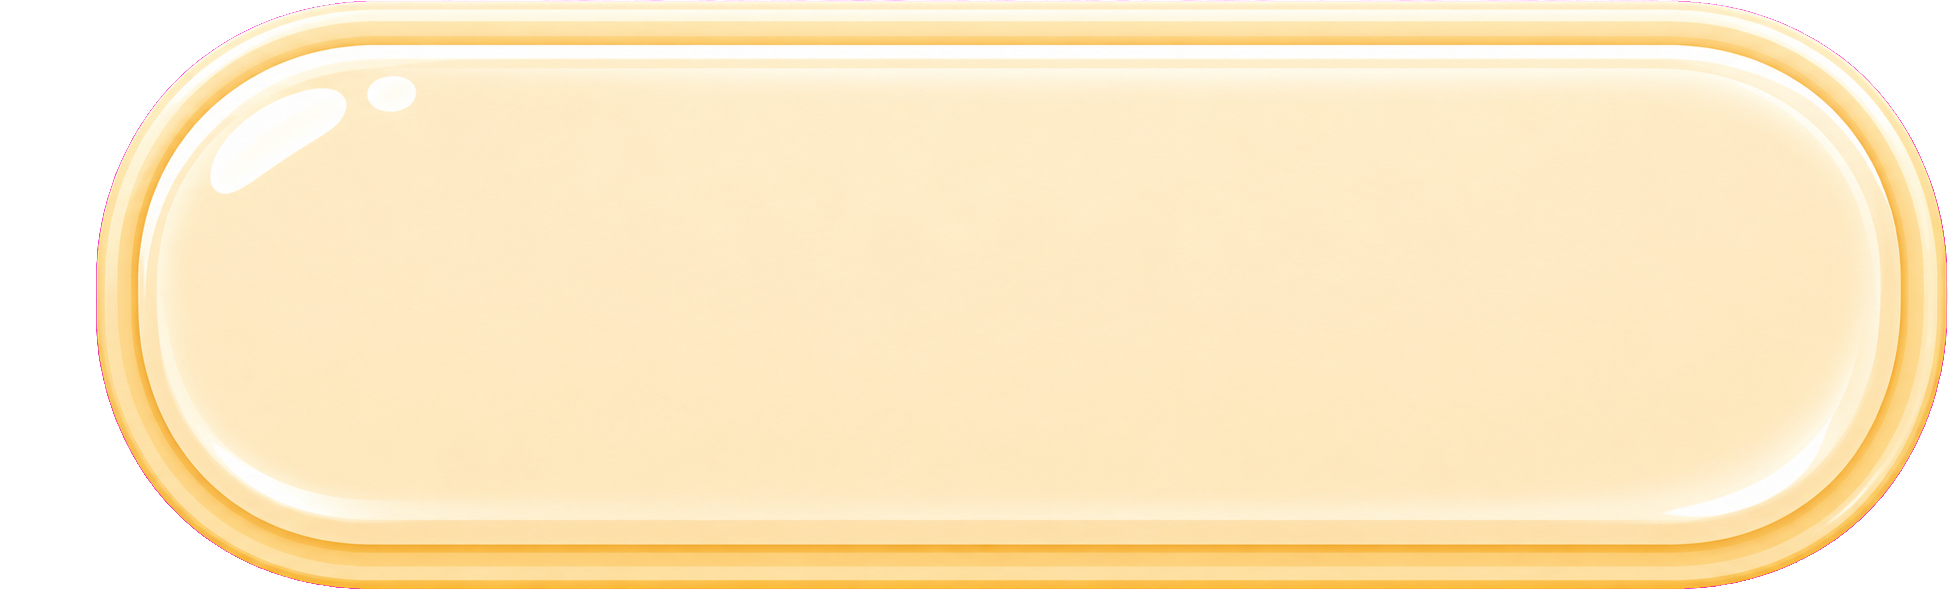
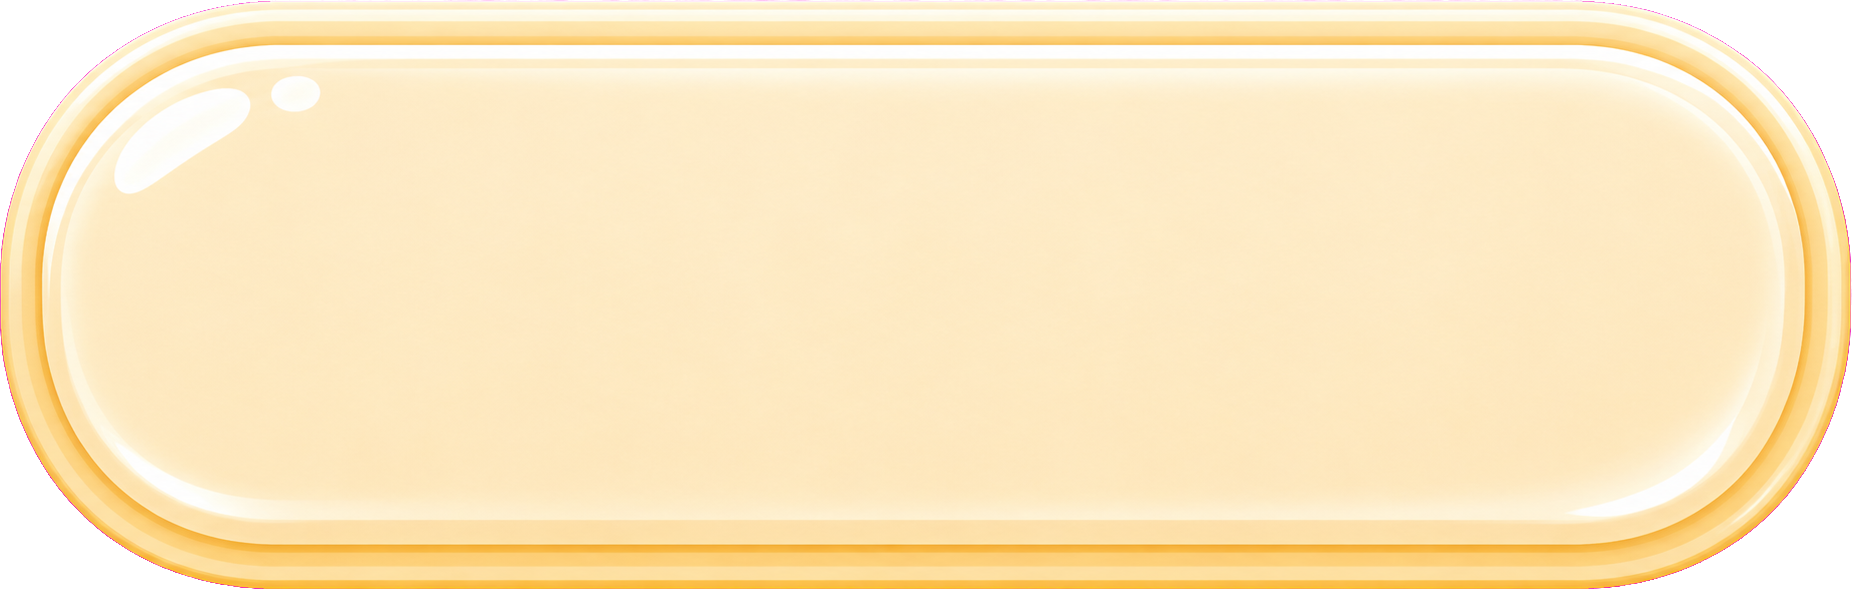
1.2.10优化设置页面

Changed region(s): [[0.0, 0.0, 0.2154, 1.0], [0.8618, 0.0, 1.0, 1.0]]

diff --git a/src/styles.css b/src/styles.css
@@ -602,10 +602,10 @@ button:disabled {
 .settings-panel {
   position: relative;
   display: grid;
-  width: min(94%, 96.9231cqw);
+  width: 80%;
   max-width: calc(100% - 4.1026cqw);
   margin-top: 50px;
-  padding: clamp(50px, 13cqw, 60px) clamp(12px, 4cqw, 20px) clamp(32px, 9cqw, 40px);
+  padding: clamp(50px, 13cqw, 60px) clamp(12px, 8cqw, 8cqw) clamp(32px, 9cqw, 40px);
   gap: clamp(8px, 2.5cqw, 10px);
   border-radius: 31px;
   background: url("./assets/image/module-settings-panel-bg.png") center / 100% 100% no-repeat;
@@ -633,7 +633,7 @@ button:disabled {
   width: 100%;
   min-width: 0;
   min-height: clamp(17.9487cqw, 20cqw, 20.5128cqw);
-  padding: 0 clamp(10px, 3cqw, 16px);
+  padding-left: 6cqw;
   grid-template-columns: max-content max-content minmax(28.7179cqw, 30.7692cqw);
   justify-content: center;
   align-items: center;
@@ -644,15 +644,15 @@ button:disabled {
 
 .settings-icon {
   justify-self: center;
-  width: clamp(7.6923cqw, 10cqw, 10.2564cqw);
-  height: clamp(7.6923cqw, 10cqw, 10.2564cqw);
+  width: 7cqw;
+  height: 7cqw;
   object-fit: contain;
 }
 
 .settings-row strong {
   min-width: 0;
   color: #086d66;
-  font-size: clamp(1rem, 5cqw, 1.2rem);
+  font-size: 1rem;
   font-weight: 950;
   line-height: 1;
   text-align: center;
@@ -663,9 +663,9 @@ button:disabled {
   position: relative;
   justify-self: stretch;
   overflow: hidden;
-  width: 100%;
+  width: 80%;
   min-width: 0;
-  min-height: clamp(9.7436cqw, 11cqw, 10.7692cqw);
+  min-height: 9cqw;
   padding: 0 clamp(32px, 10cqw, 50px) 0 clamp(10px, 4cqw, 20px);
   border-radius: 999px;
   color: #ffffff;
@@ -2031,7 +2031,7 @@ h2 {
 
 .toast {
   position: absolute;
-  top: 12px;
+  top: -10%;
   left: 18px;
   right: 18px;
   z-index: 4;
@@ -2096,8 +2096,8 @@ h2 {
 .tile-art {
   position: relative;
   z-index: 1;
-  width: 185%;
-  height: 185%;
+  width: 125%;
+  height: 125%;
   object-fit: contain;
   pointer-events: none;
 }

diff --git a/docs/project-handoff.md b/docs/project-handoff.md
@@ -7,10 +7,11 @@
 - 项目名称：Link Match 连连看
 - 项目路径：`E:\VIGORPLAY\游戏\Link-Match`
 - 项目类型：移动端竖屏 H5 单机连连看 MVP
-- 当前阶段：`1.2.9优化` 提交收口：窄屏设置页、游戏棋盘适配、棋子视觉比例和后台音乐生命周期已完成验证、本地提交和远程 `main` 推送。
+- 当前阶段：`1.2.10优化设置页面` 提交收口：设置页面板、设置行、开关、图标、文字和行背景裁切已完成验证、本地提交并推送到远程 `main`。
 
 ## 2. 当前进度
 
+- 2026-07-02 `1.2.10优化设置页面`：按本轮提交备注收口当前工作区设置页优化。`src/assets/image/module-settings-row-bg.png` 已裁掉左侧 96px 透明留白，四边透明边距复查为 0；设置页面板宽度改为 `80%`，左右 padding 调整为 `8cqw`，设置行改为 `padding-left: 6cqw`，设置图标统一为 `7cqw`，设置文字字号固定为 `1rem`，设置开关宽度改为 `80%` 且最小高度为 `9cqw`。`tests/settings-layout.test.mjs` 和 `scripts/smoke-browser.mjs` 已同步新的设置页尺寸口径。当前工作区还一并收口棋子图案比例为 `125%`、toast 位于棋盘上方的视觉断言。本轮已通过 58 条单测、首页关卡资源检查、构建和完整 smoke。
 - 2026-07-02 `1.2.9优化`：按本轮提交备注收口当前工作区优化。设置页改为响应式三列 grid，面板、标题、返回按钮、开关和图标使用容器宽度单位适配窄屏，smoke 新增 360 宽视口检查，避免 OPPO 类窄屏出现开关溢出或横向滚动。游戏页新增 `src/game-layout.js`，根据顶部 HUD、底部工具栏和可用高度动态计算棋盘外框宽度，窗口 resize、开局和复活回到游戏页时都会重新居中收口棋盘，避免宽屏短高设备挤压底部工具栏；棋子图案显示比例同步放大到 185%。音频控制新增页面隐藏、卸载和 freeze 生命周期监听，切后台或离开页面时停止本地背景音乐。新增布局、样式、视觉和音频生命周期单测，`scripts/smoke-browser.mjs` 已同步覆盖窄屏设置页、棋盘居中和棋子视觉比例。本轮已通过 57 条单测、构建和完整 smoke；图片资源检查因当前机器 `python.exe` 无法访问且没有 `py` 启动器，本轮未重跑。
 - 2026-07-01 `1.2.9全局优化`：按本轮提交备注收口当前工作区全局优化。背景音乐从程序化 WebAudio 循环切换为随包本地 `src/assets/audio/background_video.mp3`，`src/audio-settings.js` 统一维护媒体 BGM 与 WebAudio 音效控制，启动时进行静音 warmup，首次播放被自动播放策略拦截后保留后续点击重试；`src/game.js` 同步改为只有播放成功才标记启动音频已解锁。`scripts/smoke-browser.mjs` 与 `tests/audio-settings.test.mjs` 已覆盖本地 BGM、播放拒绝重试、音乐/音效开关组合和启动主流程；README、PRD 与 handoff 同步当前音频口径。新增 `src/assets/audio/` 下当前 MP3、授权文件和说明，并删除未被运行时代码引用的旧 WAV 候选资源；运行时资源复扫为 89 个、未引用 0 个。已执行 50 条单测、首页关卡资源检查、构建和完整 smoke，均通过；`dist/`、`output/` 已按临时产物清理。
 - 2026-07-01 `1.2.8抖音上架`：按本轮提交备注收口抖音小游戏上架准备。新增 `docs/douyin-minigame-integration-plan.md`，整理抖音开放平台入驻、主体认证、创建小游戏、基础信息审核、必接能力、备案申报、版本提审、发布运营配置与性能优化要点；同时结合当前 H5 单机项目现状，明确推荐路线为先做“抖音小游戏接入 Spike + 最小可预览包”，暂缓头衔系统、商城、内购和普通 UI 微调。下一轮建议以 `1.2.10抖音小游戏接入Spike` 开始，优先新增抖音小游戏工程壳、验证当前 DOM/CSS/H5 架构在开发者工具中的兼容性、接入平台存储/生命周期/侧边栏复访等最小能力。
@@ -178,37 +179,36 @@
 
 ## 4. 最近验证
 
-最近一轮（2026-07-02，`1.2.9优化` 收口时）执行：
+最近一轮（2026-07-02，`1.2.10优化设置页面` 收口时）执行：
 
 ```powershell
-npm.cmd test
-npm.cmd run build
-npm.cmd install --no-save --no-package-lock playwright
-npm.cmd run smoke
+C:\Users\youzi\.cache\codex-runtimes\codex-primary-runtime\dependencies\node\bin\node.exe --test tests/*.test.mjs
+C:\Users\youzi\.cache\codex-runtimes\codex-primary-runtime\dependencies\python\python.exe scripts\check-home-road-node-assets.py
+C:\Users\youzi\.cache\codex-runtimes\codex-primary-runtime\dependencies\node\bin\node.exe scripts\build.mjs
+C:\Users\youzi\.cache\codex-runtimes\codex-primary-runtime\dependencies\node\bin\node.exe scripts\smoke-browser.mjs
 ```
 
 验证结果：
 
-- 单测：57 条通过，0 失败。
+- 单测：58 条通过，0 失败。
+- 首页关卡资源检查：通过，9 张关卡节点图和 2 张道路连接线资源均通过脚本校验。
 - 构建：`scripts/build.mjs` 成功输出 `dist/`。
 - 完整浏览器 smoke：通过，输出 `Smoke passed: 42 tiles rendered`，棋子宽高比初始和消除后均为 `1.000`。
-- Playwright：本轮用 `--no-save --no-package-lock` 临时安装到被 `.gitignore` 忽略的 `node_modules/`，未修改 `package.json` 或 lockfile。
-- 首页关卡资源检查：本机 `python.exe` 无法访问且没有 `py` 启动器，本轮未重跑；本轮未改动图片资源。
 
 临时验证产物：
 
-- `dist/` 和 `output/` 只在构建、资源处理或 smoke 验证时临时生成；本轮验证后已清理，不提交到仓库。
+- `dist/` 和 `output/` 只在构建、资源处理或 smoke 验证时临时生成，不提交到仓库。
 
 ## 5. 当前 Git 状态
 
 - 当前分支：`main`
 - 远程仓库：`https://github.com/NicoKing-One/Link-Match.git`
-- 提交前基线：`d581f9e 1.2.9全局优化`。
-- 当前提交：本轮提交备注为 `1.2.9优化`，本地 `main` 已提交并推送到远程 `origin/main`。
-- 工作区状态：本轮改动已按备注 `1.2.9优化` 完成本地提交并推送到远程 `main`。
-- 本轮提交文件：更新 `docs/project-handoff.md`、`scripts/smoke-browser.mjs`、`src/audio-settings.js`、`src/game.js`、`src/styles.css`、`tests/audio-settings.test.mjs`，新增 `src/game-layout.js`、`tests/game-layout-style.test.mjs`、`tests/game-layout.test.mjs`、`tests/game-visuals.test.mjs`、`tests/settings-layout.test.mjs`。
-- 本轮收口内容：按备注 `1.2.9优化` 收口设置页窄屏适配、游戏棋盘动态宽度和居中、棋子图案放大、后台/卸载音乐停止以及配套单测和 smoke 断言。
-- 本轮提交备注：`1.2.9优化`。
+- 提交前基线：`3b2540b 1.2.9优化`。
+- 当前提交：本轮提交备注为 `1.2.10优化设置页面`，本地 `main` 已提交并推送到远程 `origin/main`。
+- 工作区状态：本轮改动已按备注 `1.2.10优化设置页面` 完成验证、本地提交并推送到远程 `main`。
+- 本轮提交文件：更新 `docs/project-handoff.md`、`scripts/smoke-browser.mjs`、`src/assets/image/module-settings-row-bg.png`、`src/styles.css`、`tests/game-layout-style.test.mjs`、`tests/game-visuals.test.mjs`、`tests/settings-layout.test.mjs`。
+- 本轮收口内容：按备注 `1.2.10优化设置页面` 收口设置页面板宽度、设置行留白、开关尺寸、图标/文字尺寸和设置行背景 PNG 裁切，并同步当前工作区的棋子图案比例与 toast 视觉断言。
+- 本轮提交备注：`1.2.10优化设置页面`。
 
 ## 6. 运行方式
 
@@ -232,7 +232,7 @@ http://127.0.0.1:4173
 建议下一轮按这个顺序继续：
 
 1. 用户侧优先完成抖音开放平台注册/入驻/主体认证/对公验证，并创建小游戏拿到 `appID`；同时确认小游戏名称、图标、简介、资质材料、隐私政策和适龄提示的初版方向。
-2. 开发侧下一轮建议使用备注 `1.2.10抖音小游戏接入Spike`：新增 `platforms/douyin/` 工程壳，补齐 `project.config.json`、`game.json`、`game.js` 等最小文件，并在抖音开发者工具中验证当前 H5 架构能否进入首屏。
+2. 开发侧下一轮建议使用备注 `1.2.11抖音小游戏接入Spike`：新增 `platforms/douyin/` 工程壳，补齐 `project.config.json`、`game.json`、`game.js` 等最小文件，并在抖音开发者工具中验证当前 H5 架构能否进入首屏。
 3. Spike 阶段优先验证运行环境差异：DOM/CSS 支持、资源路径、WebAudio、存储、生命周期、真机扫码预览和包体/图片资源风险；先输出兼容性结论，再决定轻量适配、局部重写渲染入口或引擎化重构。
 4. 最小可预览包通过后，再接入抖音平台必接能力和商业能力：侧边栏复访、平台存储、分享/搜索配置、激励视频广告；广告优先映射现有“双倍金币 / 失败复活 / 道具获取”入口，暂缓头衔系统、商城、内购和普通 UI 微调。
 